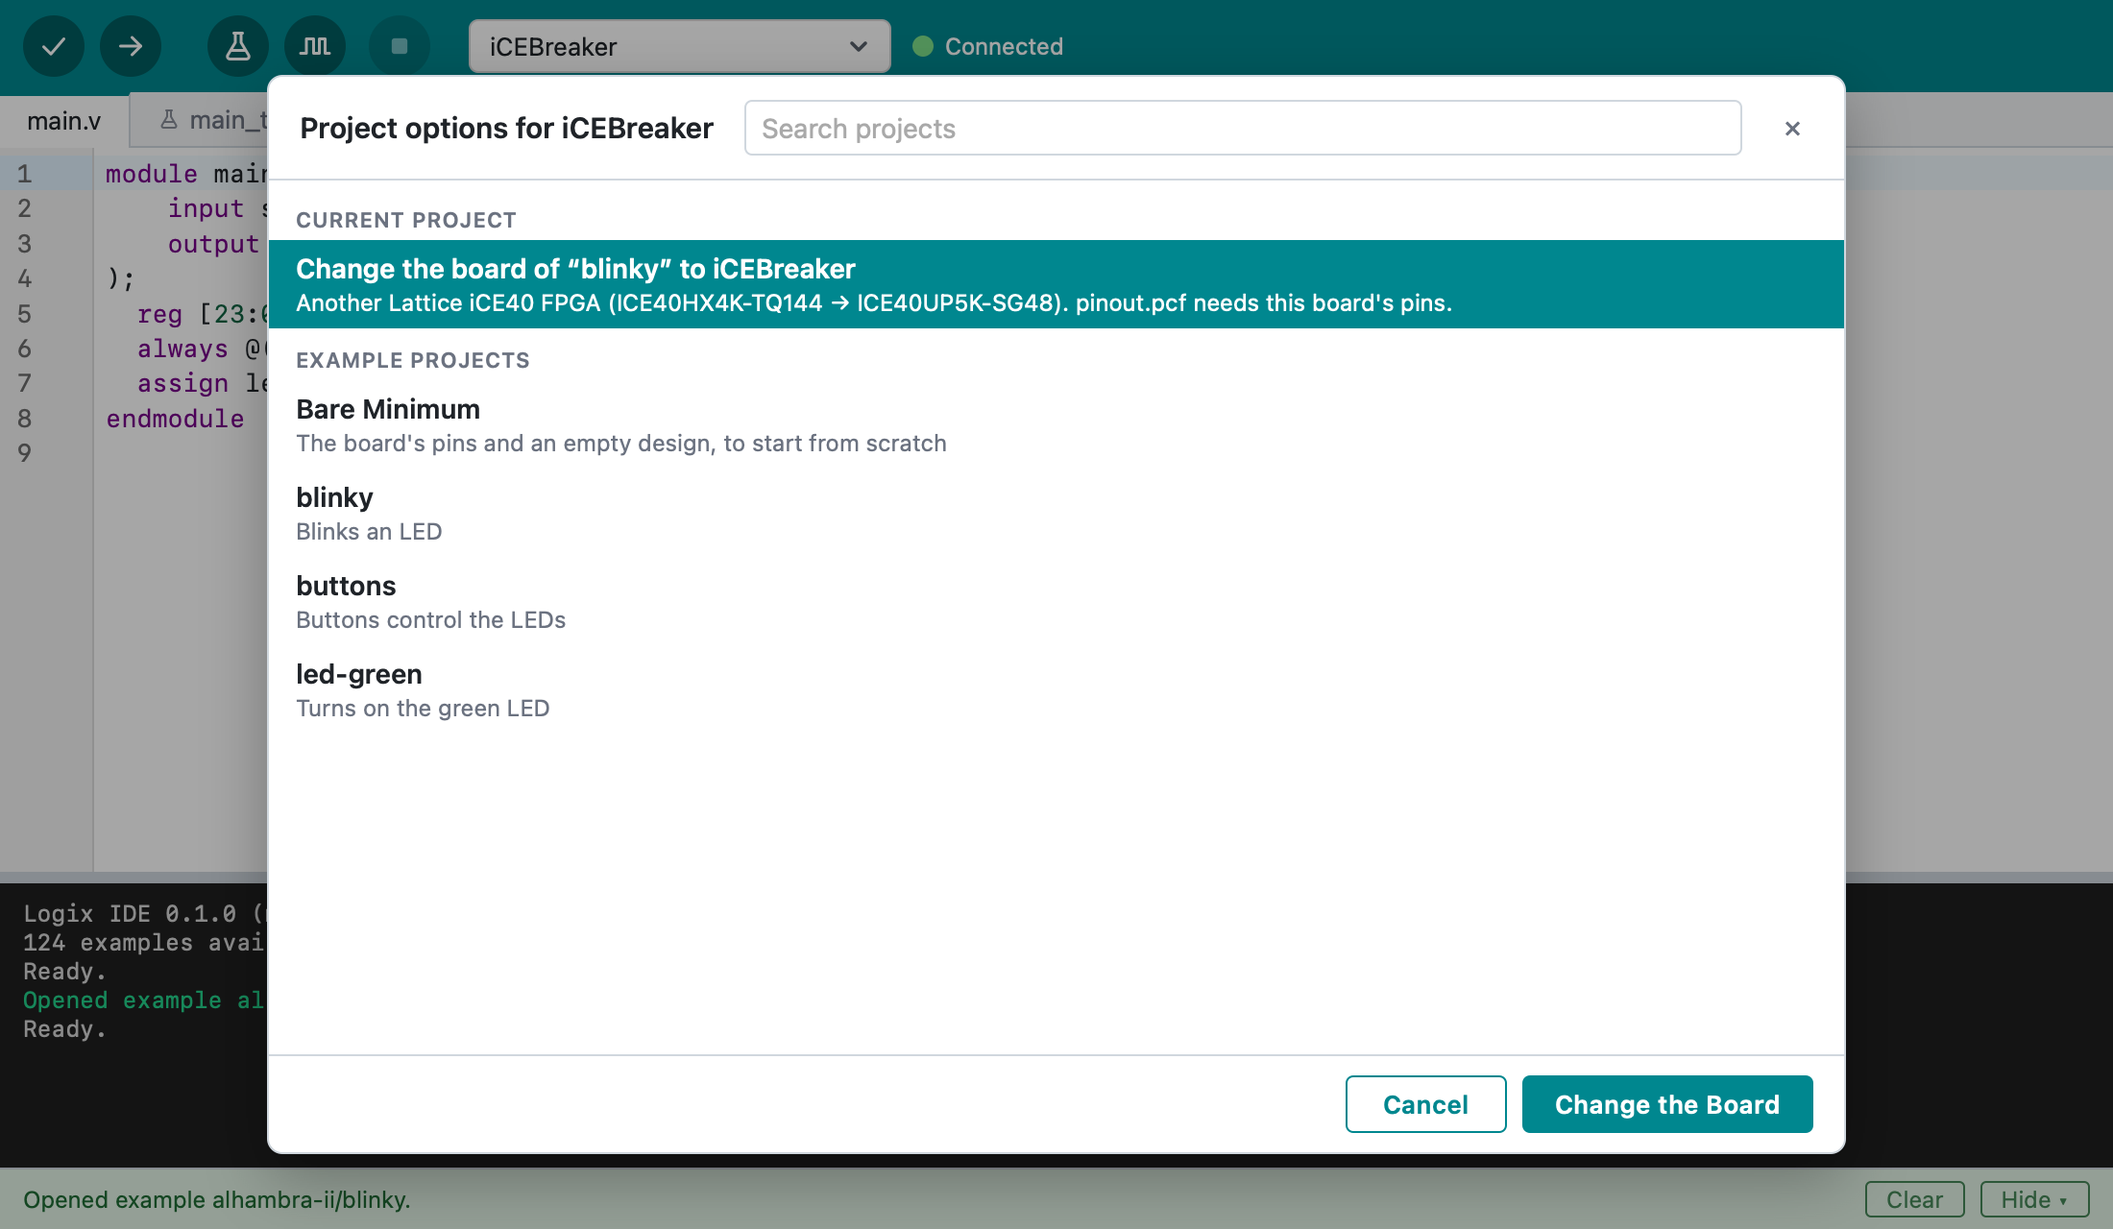
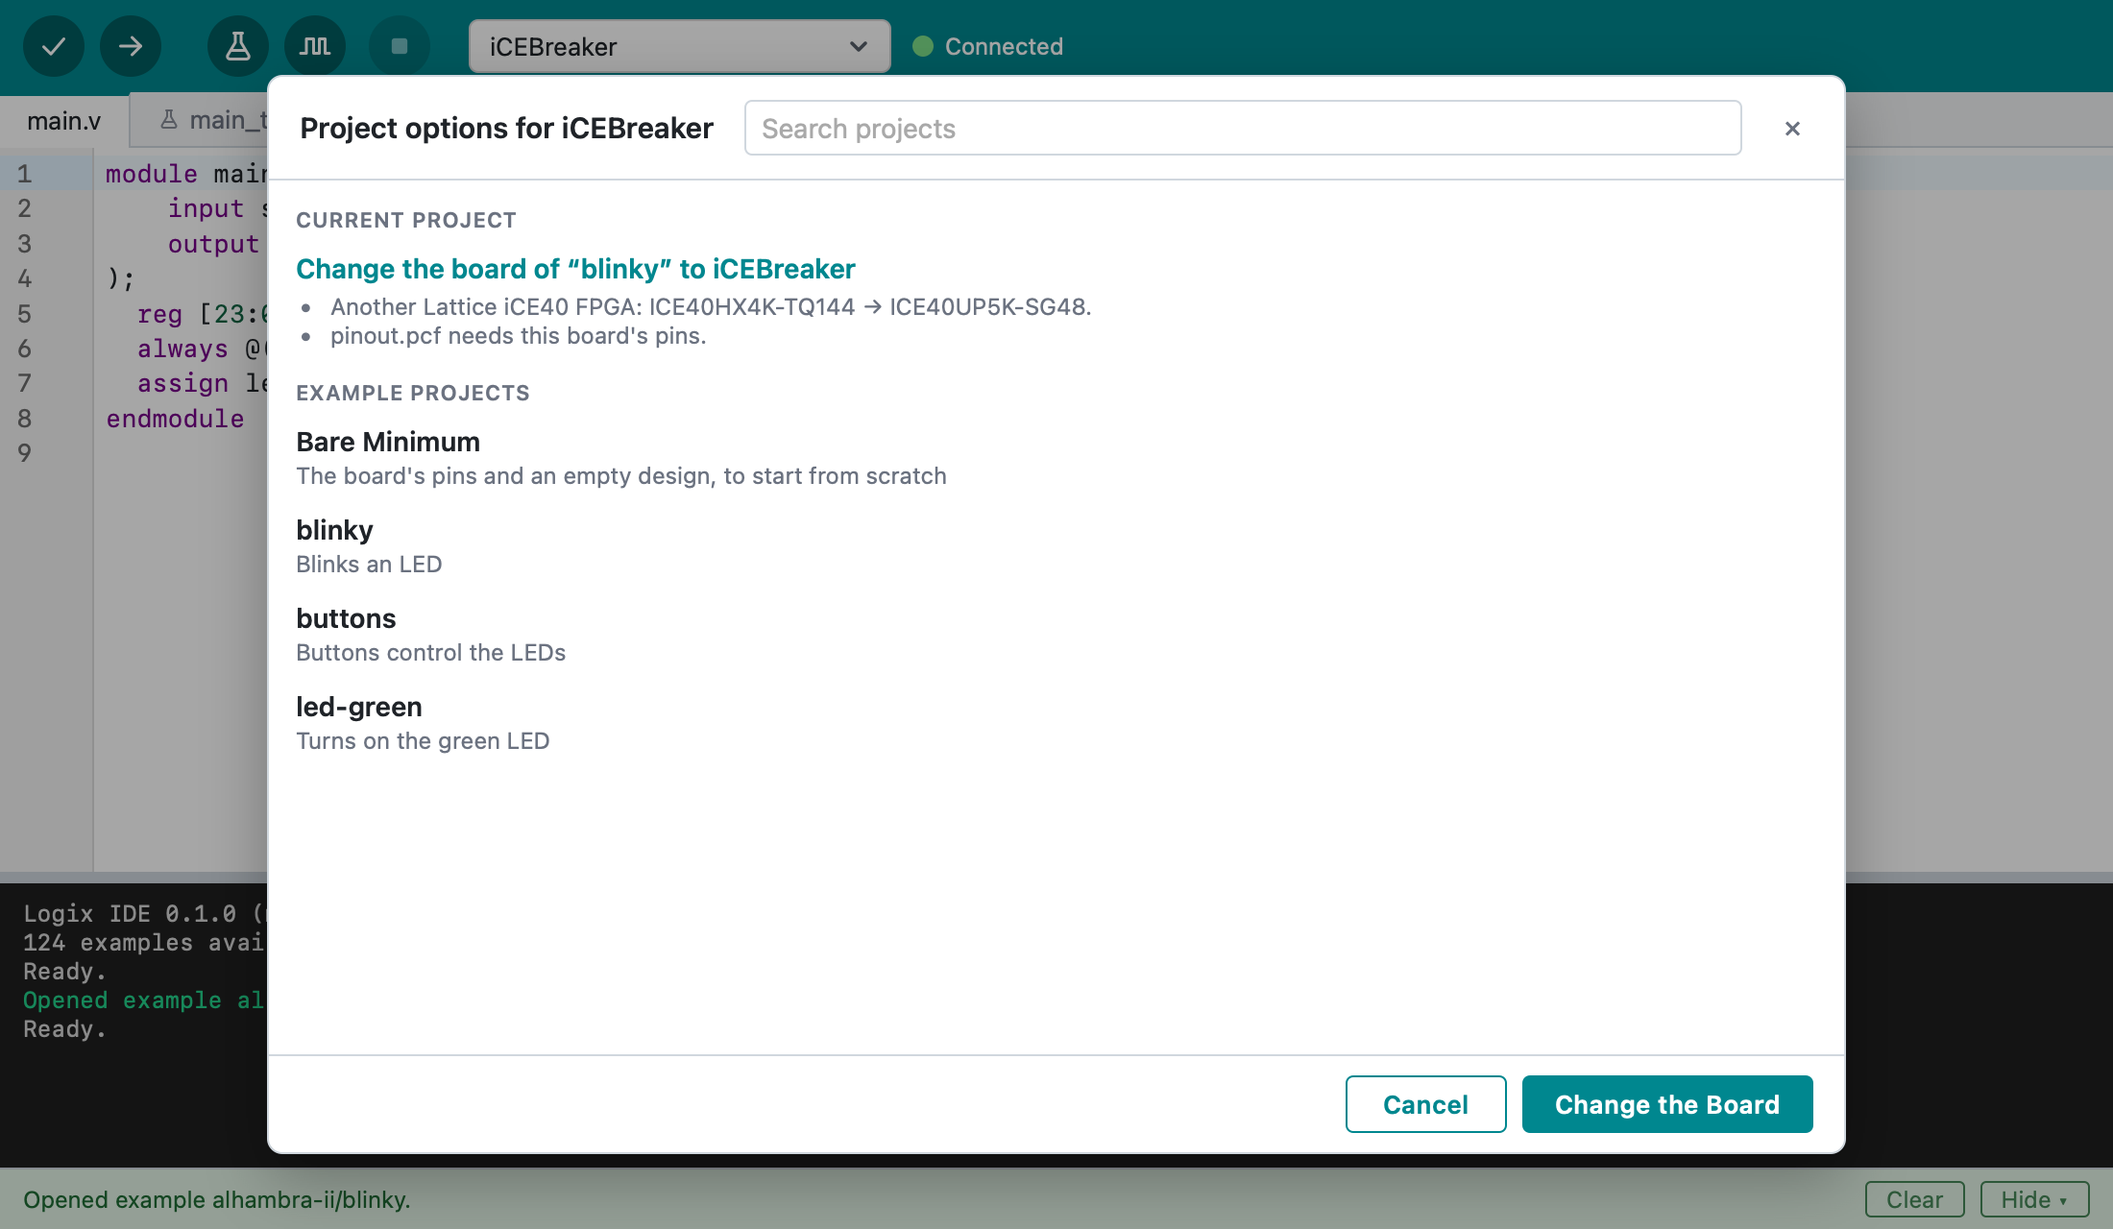
Project options: green title for the selected choice, notes as bullets
The selected choice's title alone is green, not the whole row, so its
note stays readable; the board-change note is a short bullet list (the
user's requests).

Changed region(s): [[0.1236, 0.1875, 0.8964, 0.625]]

diff --git a/ui/src/lib/boards.ts b/ui/src/lib/boards.ts
@@ -101,26 +101,32 @@ export function boardsWithFpga(boards: Board[], b: Board): Board[] {
 }
 
 /**
- * What changing a project from board `from` to board `to` means, for the
- * "change the board" choice, or null when nothing needs saying.
- * `pinFile` is the project's pin file, such as "pinout.pcf". From the
- * catalog's facts only: the same FPGA keeps the design, another FPGA of the
- * family needs this board's pins, and another family needs another kind of
- * pin file and probably significant changes.
+ * What changing a project from board `from` to board `to` means, as short
+ * bullet points for the "change the board" choice (empty when nothing
+ * needs saying). `pinFile` is the project's pin file, such as
+ * "pinout.pcf". From the catalog's facts only: the same FPGA keeps the
+ * design, another FPGA of the family needs this board's pins, and another
+ * family needs another kind of pin file and probably significant changes.
  */
-export function boardChangeNote(from: Board | null, to: Board, pinFile: string | null): string | null {
-  if (!from || from.id === to.id) return null;
+export function boardChangeNote(from: Board | null, to: Board, pinFile: string | null): string[] {
+  if (!from || from.id === to.id) return [];
   const pins = pinFile ?? "the pin file";
   if (from.arch !== to.arch && from.arch && to.arch) {
     const ext = to.pinExtension ? `a .${to.pinExtension} pin file` : "another kind of pin file";
-    const instead = pinFile ? ` instead of ${pinFile}` : "";
-    return `Another FPGA family (${from.archLabel} → ${to.archLabel}). The project needs ${ext}${instead}, and probably significant changes: parts made for ${from.archLabel}, such as its I/O cells and PLLs, won't build.`;
+    return [
+      `Another FPGA family: ${from.archLabel} → ${to.archLabel}.`,
+      `Needs ${ext}${pinFile ? ` instead of ${pinFile}` : ""}.`,
+      `Probably significant changes: ${from.archLabel} parts, such as I/O cells and PLLs, won't build.`,
+    ];
   }
   if (from.fpga?.id && from.fpga.id === to.fpga?.id) {
-    return `Same FPGA (${to.fpga.partNumber}). Check that the pins in ${pins} match this board.`;
+    return [`Same FPGA: ${to.fpga.partNumber}.`, `Check that the pins in ${pins} match this board.`];
   }
   if (from.fpga && to.fpga) {
-    return `Another ${to.archLabel} FPGA (${from.fpga.partNumber} → ${to.fpga.partNumber}). ${pinFile ?? "The pin file"} needs this board's pins.`;
+    return [
+      `Another ${to.archLabel} FPGA: ${from.fpga.partNumber} → ${to.fpga.partNumber}.`,
+      `${pinFile ?? "The pin file"} needs this board's pins.`,
+    ];
   }
-  return null;
+  return [];
 }

diff --git a/ui/src/lib/boards.test.ts b/ui/src/lib/boards.test.ts
@@ -116,18 +116,22 @@ describe("boardChangeNote", () => {
     fpga: { id: "lfe5u-25f", partNumber: "LFE5U-25F-6BG256C", size: "25k" },
   };
 
-  it("says what a board change means for the project", () => {
-    expect(boardChangeNote(alhambra, kefir, "pinout.pcf")).toBe(
-      "Same FPGA (ICE40HX4K-TQ144). Check that the pins in pinout.pcf match this board.",
-    );
-    expect(boardChangeNote(alhambra, icebreaker, "pinout.pcf")).toBe(
-      "Another Lattice iCE40 FPGA (ICE40HX4K-TQ144 → ICE40UP5K-SG48). pinout.pcf needs this board's pins.",
-    );
-    expect(boardChangeNote(alhambra, colorlight, "pinout.pcf")).toBe(
-      "Another FPGA family (Lattice iCE40 → Lattice ECP5). The project needs a .lpf pin file instead of pinout.pcf, and probably significant changes: parts made for Lattice iCE40, such as its I/O cells and PLLs, won't build.",
-    );
-    expect(boardChangeNote(alhambra, colorlight, null)).toMatch(/needs a \.lpf pin file, and probably/);
-    expect(boardChangeNote(null, colorlight, null)).toBeNull();
-    expect(boardChangeNote(alhambra, alhambra, "pinout.pcf")).toBeNull();
+  it("says what a board change means for the project, as short points", () => {
+    expect(boardChangeNote(alhambra, kefir, "pinout.pcf")).toEqual([
+      "Same FPGA: ICE40HX4K-TQ144.",
+      "Check that the pins in pinout.pcf match this board.",
+    ]);
+    expect(boardChangeNote(alhambra, icebreaker, "pinout.pcf")).toEqual([
+      "Another Lattice iCE40 FPGA: ICE40HX4K-TQ144 → ICE40UP5K-SG48.",
+      "pinout.pcf needs this board's pins.",
+    ]);
+    expect(boardChangeNote(alhambra, colorlight, "pinout.pcf")).toEqual([
+      "Another FPGA family: Lattice iCE40 → Lattice ECP5.",
+      "Needs a .lpf pin file instead of pinout.pcf.",
+      "Probably significant changes: Lattice iCE40 parts, such as I/O cells and PLLs, won't build.",
+    ]);
+    expect(boardChangeNote(alhambra, colorlight, null)[1]).toBe("Needs a .lpf pin file.");
+    expect(boardChangeNote(null, colorlight, null)).toEqual([]);
+    expect(boardChangeNote(alhambra, alhambra, "pinout.pcf")).toEqual([]);
   });
 });

diff --git a/ui/src/lib/ExamplesDialog.svelte b/ui/src/lib/ExamplesDialog.svelte
@@ -87,11 +87,11 @@
 
   const onlyBoardInfo = $derived(boards.find((b) => b.id === onlyBoard) ?? null);
   const onlyBoardName = $derived(onlyBoardInfo?.description ?? onlyBoard);
-  /** What moving the current project to the new board means. */
+  /** What moving the current project to the new board means: short points. */
   const changeNote = $derived(
     currentProject && onlyBoardInfo
       ? boardChangeNote(currentProject.board, onlyBoardInfo, currentProject.pinFile)
-      : null,
+      : [],
   );
   /** The selected board's group, or the first one if it's filtered out. */
   const group = $derived(
@@ -263,7 +263,12 @@
               <span class="example-name"
                 >Change the board of “{currentProject.name}” to {onlyBoardName}</span
               >
-              {#if changeNote}<span class="example-desc">{changeNote}</span>{/if}
+              {#if changeNote.length > 0}
+                <!-- Spans as list items: a button can't hold a list. -->
+                <span class="example-desc note">
+                  {#each changeNote as point, i (i)}<span class="point">{point}</span>{/each}
+                </span>
+              {/if}
             </button>
           </li>
         {/if}
@@ -477,6 +482,34 @@
   }
   .selected .example-desc {
     color: inherit;
+  }
+  /* Project options: the selected choice's title is green, its note stays
+     as it is (the user's request). */
+  .single li button.selected {
+    background: transparent;
+    color: inherit;
+  }
+  .single li button.selected:hover {
+    background: var(--banner-bg);
+  }
+  .single .selected .example-name {
+    color: var(--accent);
+  }
+  .single .selected .example-desc {
+    color: var(--muted);
+  }
+  .single .recent.selected :global(svg) {
+    color: var(--accent);
+  }
+  /* The current-project choice's note: short bullet points. */
+  .note {
+    display: block;
+    margin-top: 2px;
+    padding-left: 18px;
+  }
+  .note .point {
+    display: list-item;
+    list-style: disc;
   }
   .empty {
     padding: 8px 14px;

diff --git a/ui/e2e/app.e2e.ts b/ui/e2e/app.e2e.ts
@@ -344,9 +344,10 @@ test("changing the board offers project options: the current project first", asy
   // The current project, selected, with what the change means.
   const current = dialog.getByRole("button", { name: /^Change the board of “blinky” to iCEBreaker/ });
   await expect(current).toHaveClass(/selected/);
-  await expect(current).toContainText(
-    "Another Lattice iCE40 FPGA (ICE40HX4K-TQ144 → ICE40UP5K-SG48). pinout.pcf needs this board's pins.",
-  );
+  await expect(current.locator(".note .point")).toHaveText([
+    "Another Lattice iCE40 FPGA: ICE40HX4K-TQ144 → ICE40UP5K-SG48.",
+    "pinout.pcf needs this board's pins.",
+  ]);
   await expect(dialog.getByText("Example projects", { exact: true })).toBeVisible();
   // The main button follows the selection.
   const main = dialog.locator("footer .primary");
@@ -360,9 +361,11 @@ test("changing the board offers project options: the current project first", asy
   await expect(boardButton(page)).toHaveText(/Alhambra II/);
   // Another family: another kind of pin file, and probably more.
   await pickBoard(page, "ColorLight-5A-75B-V8");
-  await expect(dialog.getByRole("button", { name: /^Change the board of/ })).toContainText(
-    "The project needs a .lpf pin file instead of pinout.pcf, and probably significant changes",
-  );
+  await expect(dialog.getByRole("button", { name: /^Change the board of/ }).locator(".note .point")).toHaveText([
+    "Another FPGA family: Lattice iCE40 → Lattice ECP5.",
+    "Needs a .lpf pin file instead of pinout.pcf.",
+    /^Probably significant changes/,
+  ]);
   await page.keyboard.press("Escape");
   await expect(boardButton(page)).toHaveText(/Alhambra II/);
   // Change the Board (the default): the files stay, the board changes.

diff --git a/CLAUDE.md b/CLAUDE.md
@@ -249,7 +249,7 @@ Use the current major versions of GitHub's actions (`actions/checkout`, `setup-n
 - **Reopening the last project**: `src-tauri/src/settings.rs` keeps IDE settings in `~/.logix/settings.json` (unknown fields preserved). Opening, saving or Save As records the project folder; at startup the UI calls `open_last_project` and shows the start screen if there's none or it can't be loaded (with a console note). File > Close Project clears it (`close_project`; the recent projects stay), so the next start shows the start screen rather than the closed project.
 - **Always a board**: the toolbar always shows a board, with or without a project: the project's, or else `homeBoard` (the last chosen, `last_board`: `lastBoard` in `settings.json`, else `examples::DEFAULT_BOARD`, `alhambra-ii`, FPGAwars' board). Picking one with no project sets `homeBoard` and `lastBoard`; New Project and the examples use it. Only a project opened from disk without a board shows "Select board…".
 - **No project and the start screen** (decided): with no project open (`project === null`: the first start, no last project, or after File > Close Project), the editor area shows the start screen (`welcome` in `App.svelte`, labelled "Start"): "Welcome to Logix IDE", the motto, "Getting the FPGA tools ready…" or a pointer to the setup error while the tools aren't ready, three cards in a row (New Project, Open Project…, From Example…; each an accent-colored line icon, a title and a one-line hint, raised on hover), and up to 5 recent projects (reloaded when the screen appears and on the `recents-changed` menu event that Clear Menu sends; rows with a folder icon, the folder name and, dimmed, its parent path). The screen is top-aligned, with the same space (`--welcome-gap`, 56 px) above the title and between the motto and the cards, and 40 px above the recent projects; the cards are compact (156 px wide). Tabs and editor are hidden (not unmounted), and Verify etc. are disabled. No "Start with Blinky" button (removed, the user's decision): examples are one click away under From Example…. Why a start screen: "New" giving someone else's design (blinky) was confusing, and a single-window app needs a state without a project to close to. Close Project asks to save first (`confirmLeave`), keeps the board as `homeBoard`, clears `lastProject` (`close_project`, so a restart stays on the start screen), and ends with "Closed the project." and "Ready.".
-- **New projects** (File > New Project > Empty Project, or the start screen's New Project): `new_project(board)` gives the board's Bare Minimum (its pin file and a `main.v` that builds and does nothing yet; see Bare Minimum), as Arduino's File > New gives an empty sketch, named "untitled"; boards without a starter get the no-pins `main.v`. It needs no tools (the examples are built in). Startup reopens the last project, or else shows the start screen; it never makes a project by itself. Changing the board never replaces files (as in Arduino): `setBoard` holds it in `pendingBoard` and opens "Project options for <board>" (the Examples dialog for that board only, `onlyBoard`; the user's design, 2026-11-06, replacing "Keep Current Files" and a vague "Open"), one list of choices: "Current project" (`Change the board of "<project>" to <board>`, selected by default, with a note from `boardChangeNote` in `boards.ts` on what the change means: same FPGA, check the pins; another FPGA of the family, the pin file needs this board's pins; another family, "The project needs a .lpf pin file instead of pinout.pcf, and probably significant changes", the user's wording; the pin file is `projectPinFile`), "Recent projects": the recent projects made for that board (not the open one; `recent_projects_for_board`, which reads only each project file's board with `project::board_of`), and "Example projects". Why only that board's projects: a project brings its own board, so offering others would undo the board just picked. The main button says what the selected choice does: "Change the Board" (applies the board to the project, `closeExamples(true)`), "Open Project" (as Open Recent, `openBoardRecent`), or "New Project" (an example or Bare Minimum, a new unsaved project); double-click does the same. Cancel, Esc and ✕ cancel the board change (`closeExamples(false)`). The dialog ignores keys until after the event that opened it (`armed`): the Enter that picks a board in the board list reached it and applied the default choice at once. Opening an example or project brings its own board, so "Save changes?" is only asked about real edits. A missing pin file is explained in plain words (`friendly` in `ui/src/lib/tasks.ts`).
+- **New projects** (File > New Project > Empty Project, or the start screen's New Project): `new_project(board)` gives the board's Bare Minimum (its pin file and a `main.v` that builds and does nothing yet; see Bare Minimum), as Arduino's File > New gives an empty sketch, named "untitled"; boards without a starter get the no-pins `main.v`. It needs no tools (the examples are built in). Startup reopens the last project, or else shows the start screen; it never makes a project by itself. Changing the board never replaces files (as in Arduino): `setBoard` holds it in `pendingBoard` and opens "Project options for <board>" (the Examples dialog for that board only, `onlyBoard`; the user's design, 2026-11-06, replacing "Keep Current Files" and a vague "Open"), one list of choices: "Current project" (`Change the board of "<project>" to <board>`, selected by default, with a note as short bullet points from `boardChangeNote` in `boards.ts` on what the change means: same FPGA, check the pins; another FPGA of the family, the pin file needs this board's pins; another family, "Needs a .lpf pin file instead of pinout.pcf." and "Probably significant changes: …", the user's wording; the pin file is `projectPinFile`; spans styled as list items, since a button can't hold a list), "Recent projects": the recent projects made for that board (not the open one; `recent_projects_for_board`, which reads only each project file's board with `project::board_of`), and "Example projects". Why only that board's projects: a project brings its own board, so offering others would undo the board just picked. The main button says what the selected choice does: "Change the Board" (applies the board to the project, `closeExamples(true)`), "Open Project" (as Open Recent, `openBoardRecent`), or "New Project" (an example or Bare Minimum, a new unsaved project); double-click does the same. Cancel, Esc and ✕ cancel the board change (`closeExamples(false)`). In this dialog a selected choice shows only its title in the accent color, not a filled row, so its note stays readable (the user's request). The dialog ignores keys until after the event that opened it (`armed`): the Enter that picks a board in the board list reached it and applied the default choice at once. Opening an example or project brings its own board, so "Save changes?" is only asked about real edits. A missing pin file is explained in plain words (`friendly` in `ui/src/lib/tasks.ts`).
 - **Board picker** (`ui/src/lib/BoardPicker.svelte`, like Arduino IDE 2's board selector; replaced a native `<select>`, which can't report picking the current board): a button with the board's name opens a searchable list (combobox + listbox, arrows/Page/Enter/Esc), "Recently used" first (the boards picked most recently, newest first, up to 5: `recentBoards` in `settings.json`, updated by `set_last_board`, which returns them, and read by `recent_boards`; the user's request, 2026-11-06: it isn't based on guesses, unlike the dropped connected-device groups), then all boards grouped by FPGA architecture (`Board.arch` from the engine catalog's FPGA `architecture`, with its `archLabel` and `archOrder` from the catalog's `architectures`, such as "Lattice iCE40" first; families the engine doesn't describe come last, by ID; `groupByArch` in `ui/src/lib/boards.ts`). Each entry's hover hint names its FPGA ("FPGA: Lattice iCE40 ICE40HX4K-TQ144 (8k)", `fpgaLabel`), and the search also matches the FPGA's part number and ID, though they aren't shown (the user's request, 2026-11-06: to find a board like theirs). Picking any board, the current one included, calls `setBoard`. The selected board is marked with a small accent-colored dot, not a check mark, which looked like the groups' arrows (the user's request). Group headings use their own theme colors, `--group-bg` and `--group-fg` in `ui/src/app.css` (a gray a little darker than the list, light and dark: the user preferred gray to the earlier teal tint), so they stand apart from the entries, and long titles wrap left aligned with the count on the right (the user's request). "Recently used" is collapsible too: it starts expanded, and its collapsed state is kept only in memory (`recentCollapsed`). The project's own boards (custom-boards.json) are in their architecture's group, first, and never in "Recently used" (other projects don't have them). Architecture groups are collapsible in the picker and in the Examples dialog's boards column (`groupByArch`); the expanded ones are shared by both and remembered in `localStorage` (`ui/src/lib/expandedGroups.svelte.ts`, all collapsed by default), opening a list expands the current board's group, and a search shows matches in all groups.
 - **Board**: chosen in the toolbar's board picker and stored in `logix-ide.toml`. Changing it offers the board's examples (see New projects) and, if the files are kept, marks the project as unsaved.
 - `src-tauri/src/menu.rs`: native menu bar. New/Open/Save/Save As are emitted to the UI as `menu` events; Close and Quit go through the window-close flow. File dialogs and the "Save changes?" prompt run in Rust (`tauri-plugin-dialog`), so the UI needs no dialog or file system permissions.
